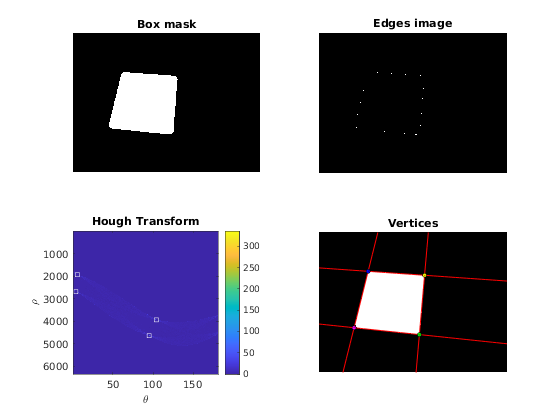
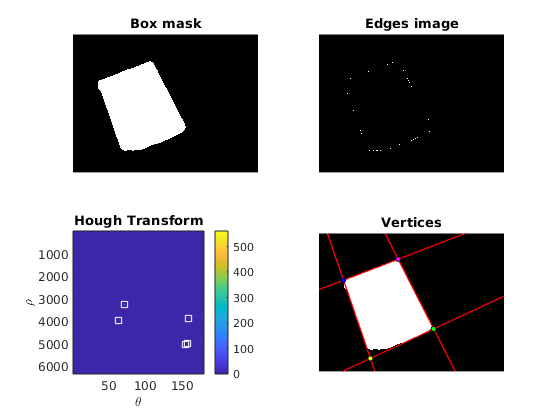
perspective marix

diff --git a/final/functions/crop_box_perspective.m b/final/functions/crop_box_perspective.m
@@ -1,4 +1,4 @@
-function boxRotated = crop_box_perspective(image, sf, imgPadding, vertices, type, debug)
+function [boxRotated, outMatrix] = crop_box_perspective(image, sf, imgPadding, vertices, type, debug)
 
     vertices = (vertices - imgPadding) * sf;
 
@@ -38,17 +38,21 @@ function boxRotated = crop_box_perspective(image, sf, imgPadding, vertices, type
 
     %% Evaluate Transformation
     H = fitgeotrans(vertices, outVertices, 'projective');
-    [Iwarp, ref] = imwarp(image, H, 'OutputView', imref2d(size(image)));
+    Iwarp = imwarp(image, H, 'OutputView', imref2d(size(image)));
 
     %% Crop box
     boxCropped = imcrop(Iwarp, [1, 1, horizontal, vertical]);
 
     boxRotated = boxCropped; 
     %% Rotate if necessary
+    rotMatrix = [1 0 0; 0 1 0; 0 0 1];
     if applyRotation
-        tform = affine2d([0 1 0; -1 0 0; 0 0 1]);
-        boxRotated = imwarp(boxCropped, tform);
+        rotMatrix = affine2d([0 1 0; -1 0 0; 0 0 1]);
+        boxRotated = imwarp(boxCropped, rotMatrix);
     end
+    
+    projectionMatrix = H.T;
+    outMatrix = projectionMatrix * rotMatrix;
 
     if debug
         %% Show results

diff --git a/final/functions/cut_type1.m b/final/functions/cut_type1.m
@@ -14,7 +14,13 @@ function cuts = cut_type1(boxCropped, debug)
             startIndexJ = (j - 1) * tWidth + 1;
             endIndexJ   = j * tWidth;
             target = boxCropped(startIndexI:endIndexI, startIndexJ:endIndexJ, :);
-            cuts{k} = target;
+            % Save cut value
+            cuts{k}.value = target;
+            % Save center
+            x = mean([startIndexJ, endIndexJ]);
+            y = mean([startIndexI, endIndexI]);
+            cuts{k}.center = [x, y];
+            
             k = k +1;
         end
     end
@@ -23,7 +29,7 @@ function cuts = cut_type1(boxCropped, debug)
         figure(6);
         for k = 1 : 24
             subplot(4, 6, k);
-            imshow(cuts{k});
+            imshow(cuts{k}.value);
             j = floor((k - 1)/6) + 1;
             i = mod((k - 1), 6) + 1;
             text = "(" + j + ", " + i + ")";

diff --git a/final/functions/box_vertices.m b/final/functions/box_vertices.m
@@ -5,7 +5,7 @@ distances:list of pairwise distances between vertices
 vertices_s:sorted list of 4 vertices, the first pair is the one with the longet distance
 distances_s:list of sorted distances
 %}
-function outVertices = box_vertices(box_label, padding_size, debug, targetIndex)
+function outVertices = box_vertices(box_label, padding_size, debug)
     [rows, cols] = size(box_label);
 
     box_label = medfilt2(box_label, [40 40]);
@@ -138,10 +138,13 @@ function outVertices = box_vertices(box_label, padding_size, debug, targetIndex)
         viscircles(vertices(4, :), 10, 'Color', 'y');
         %imshow(vertices_mask);
 
+        %{
         %% Save
         path = "../images/hough/hough_" + targetIndex;
         print('ScreenSizeFigure','-dpng','-r0')
-        saveas(f, path, 'png');
+        saveas(f, path, 'png'); 
+        %}
+
     end
 
 end

diff --git a/final/test.m b/final/test.m
@@ -26,7 +26,7 @@ cannyEdge = image_to_edge(targetImage, false);
 boxMask = box_detection(cannyEdge, paddingSize, false);
 
 %% Find box vertices
-vertices = box_vertices(boxMask, paddingSize, true, targetIndex);
+vertices = box_vertices(boxMask, paddingSize, true);
 
 %% Classify box type
 typeFeature = compute_type_feature(vertices);
@@ -35,7 +35,8 @@ boxType = boxTypeClassifier.predict(typeFeature);
 %% Crop box from original image
 cropTarget = originalImage;
 sf = length(cropTarget) ./ length(scaledImage);
-cropped = crop_box_perspective(cropTarget, sf, paddingSize, vertices, boxType, false);
+[cropped, tMatrix] = crop_box_perspective(cropTarget, sf, paddingSize, vertices, boxType, true);
+
 
 %% Cut choccolates
 

diff --git a/final/functions/predict_type1.m b/final/functions/predict_type1.m
@@ -15,7 +15,7 @@ function outPrediction = predict_type1(cuts, classifier, debug)
     
     %% Predict
     for i = 1 : numel(cuts)
-        data = compute_qhist(cuts{i});
+        data = compute_qhist(cuts{i}.value);
         prediction(i) = classifier.predict(data);
     end
     prediction = prediction';

diff --git a/main.m b/main.m
@@ -25,6 +25,12 @@ type = 2; %% Recatangular
 
 boxCropped = crop_box_perspective(scaledImage, vertices, type);
 
+%{
+T = [1 0 0;0 1 0;100 0 1];
+tform_t = affine2d(T) 
+%}
+
+
 %% Show results
 figure(1);
 subplot(1,1,1);

diff --git a/final/predict_type1_test.m b/final/predict_type1_test.m
@@ -9,7 +9,7 @@ debug = true;
 images = readlist(relPath + 'data/images.list');
 imgPadding = 300;
 scaleFactor = 0.5;
-targetIndex = 39;
+targetIndex = 49;
 
 tic
 
